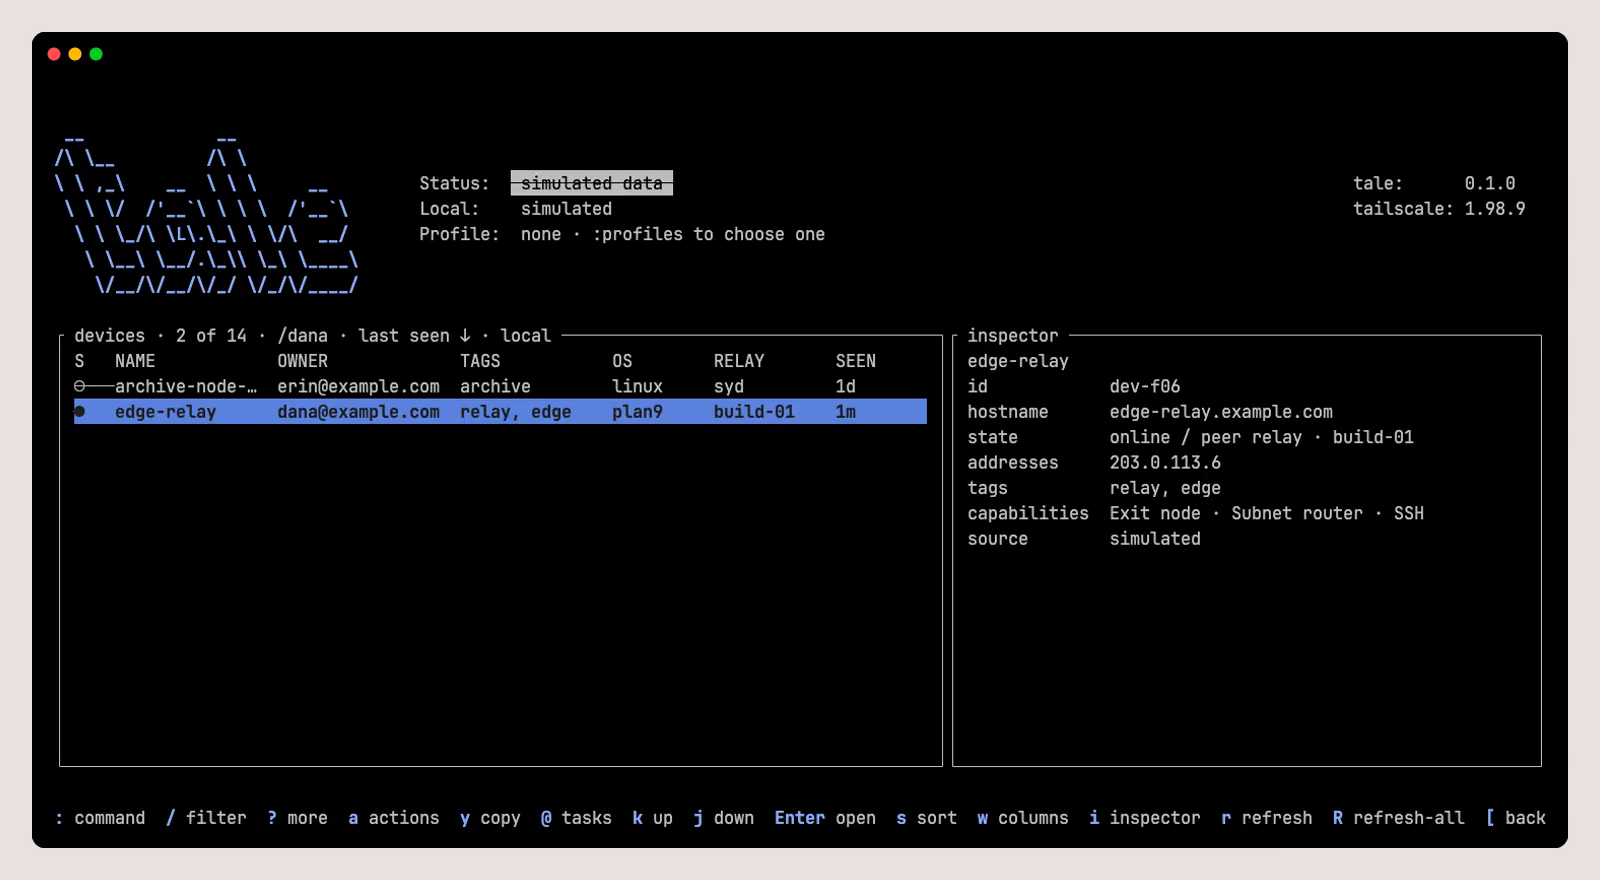
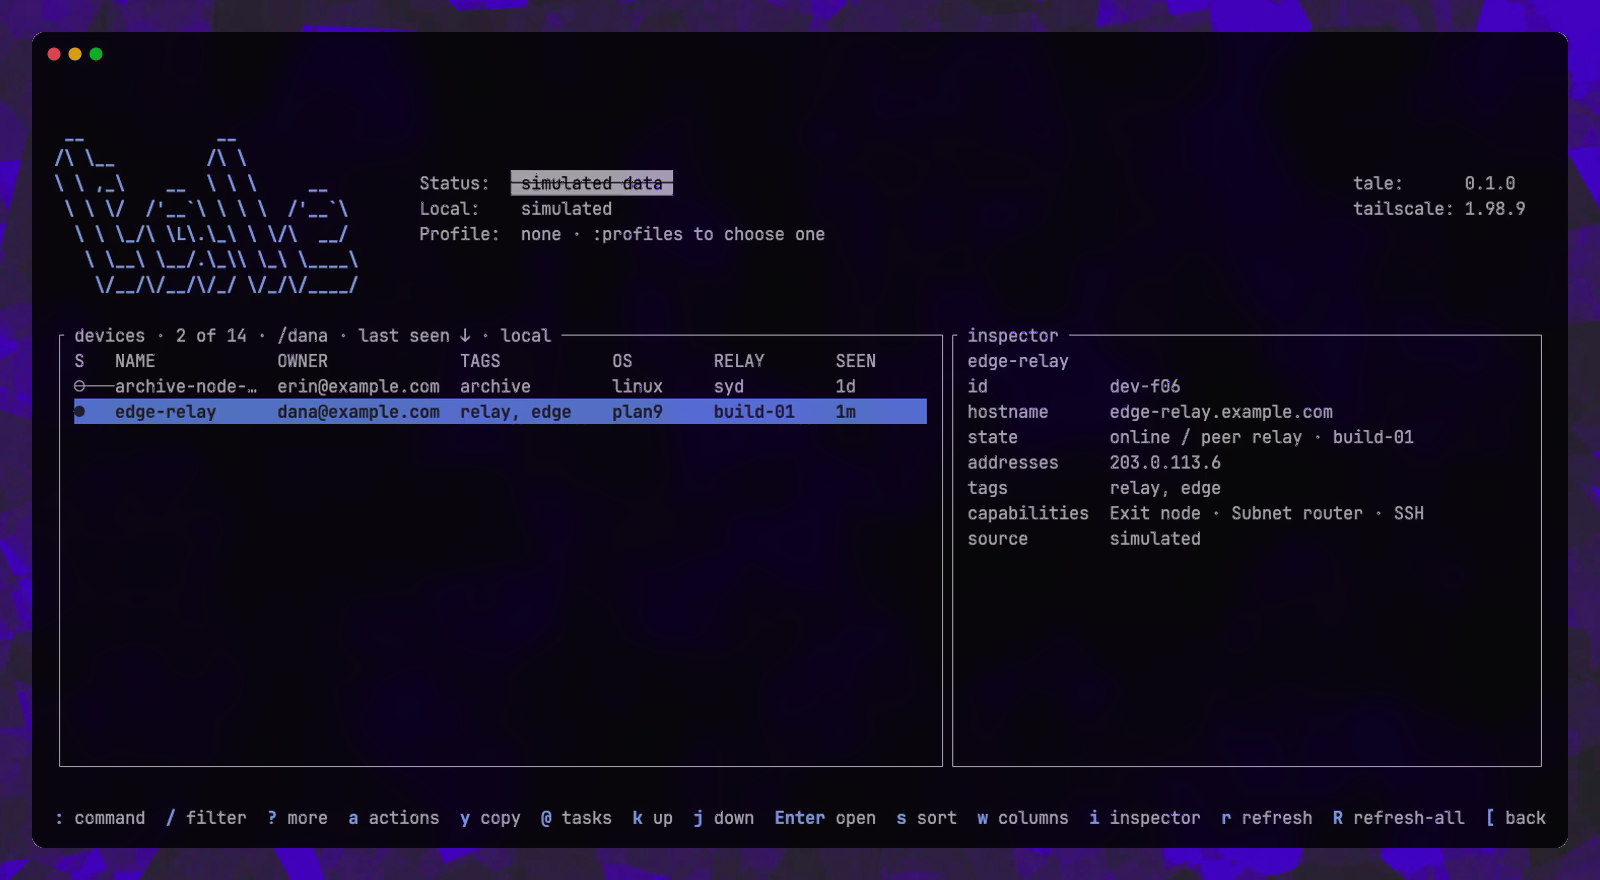
docs: add wallpaper to readme screenshots

diff --git a/README.md b/README.md
@@ -38,13 +38,14 @@ platform or client combination as supported.
 
 ```sh
 nix develop
-./scripts/capture-readme-screenshots.sh
+./scripts/capture-readme-screenshots.sh docs/assets/readme-wallpaper.jpg
 ```
 
 The script builds Tale, drives the deterministic mock TUI, and replaces all
 three PNGs. The Nix development shell provides the pinned capture toolchain.
-Pass an image to place an arbitrary wallpaper behind a blurred, translucent
-terminal window:
+The bundled wallpaper is the free Unsplash image
+[“Abstract pattern of dark blue and purple shapes”](https://unsplash.com/photos/lyAklGd7z8E)
+by FRAG. Pass another image to use an arbitrary wallpaper instead:
 
 ```sh
 ./scripts/capture-readme-screenshots.sh /path/to/wallpaper.jpg
